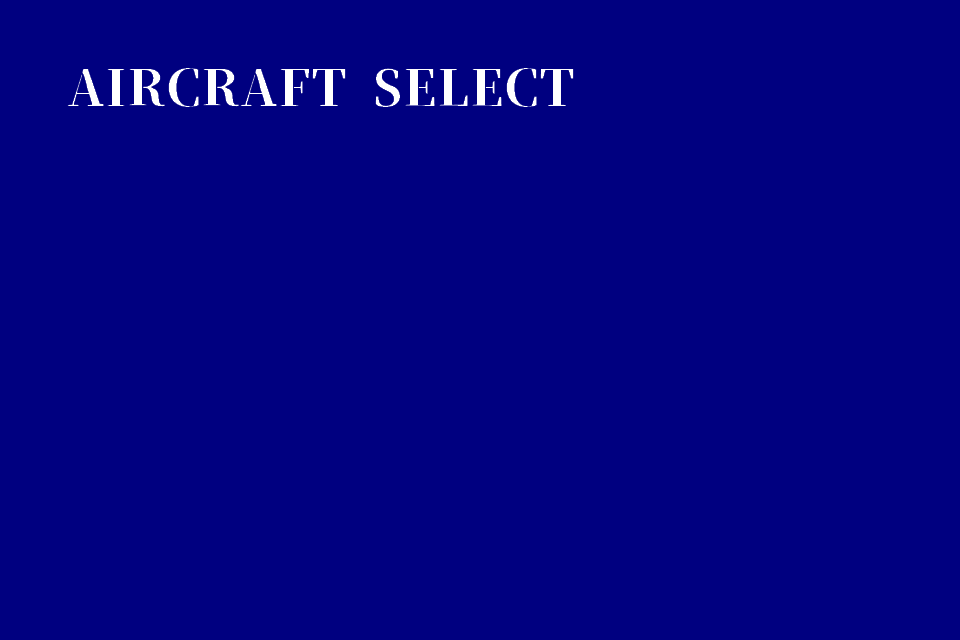
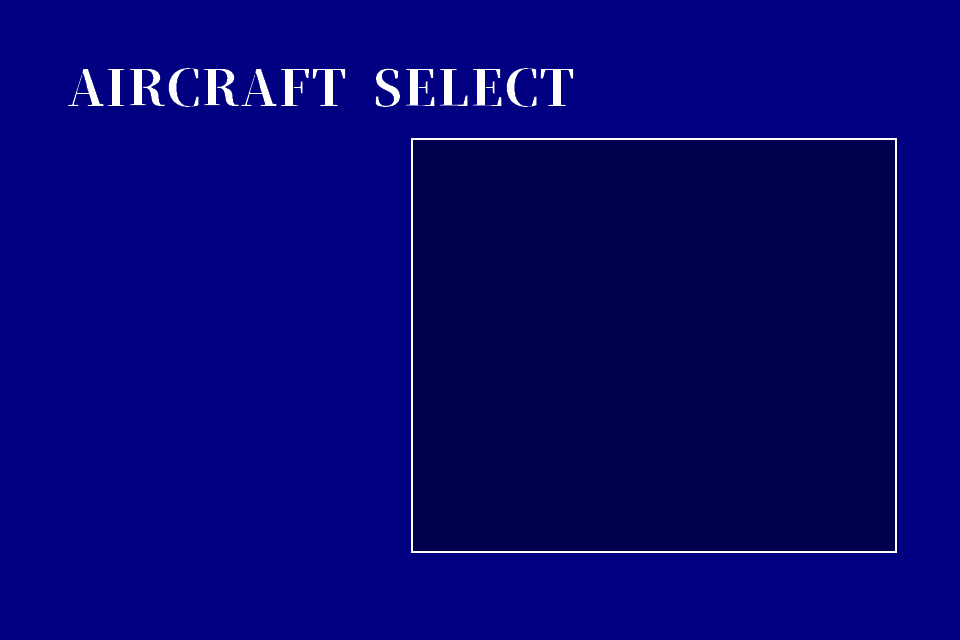
ver0.2

diff --git a/main/AircraftSelectScene.js b/main/AircraftSelectScene.js
@@ -1,0 +1,115 @@
+class AircraftSelectScene extends GameScene {
+  constructor () {
+    super("aircraftSelectScene");
+    this.selecter;
+    this.aircraft;
+    this.selectAircraft;
+    
+    this.text_unitName; 
+    this.text_specName;
+    this.specBar = new Array(3);
+    for (let i = 0; i < this.specBar.length; i++) {
+      this.specBar[i] = new Array(10);
+    }
+  }
+
+  init() {
+    super.init();
+    this.selectAircraft = 0;
+  }
+
+  preload() {
+    super.preload();
+
+    this.load.image("aircraft_select_background", "assets/images/aircraft_select_select.png");
+    this.load.image("aircraft_select_ui", "assets/images/aircraft_select_ui.png");
+    
+    let spec_temp = ["n", "b", "g", "r"];
+    for (let i = 0; i < spec_temp.length; i++) {
+      this.load.image("specBar_" + i, "assets/images/specBar_" + spec_temp[i] +".png");
+    }
+    
+    for (let i = 0; i < UNIT_DATA.length; i++) {
+      this.load.image(UNIT_DATA[i].tag, "assets/images/player/" + UNIT_DATA[i].tag +".png");
+    }
+  }
+
+  create() {
+    this.add.image(DISPLAY_WIDTH / 2, DISPLAY_HEIGHT / 2, "aircraft_select_background");
+    this.selecter = this.add.image(96+128, 154+(this.selectAircraft * 32), "select_ui_selecter");
+    this.add.image(96+128, 168+82, "aircraft_select_ui");
+    this.aircraft = this.add.image(800, 286, "fsb18");
+
+    this.text_unitName = this.add.text(440, 156, '', { font: '36px monospace', fill: '#00ff00' });
+    this.text_specName = this.add.text(440, 224, '', { font: '24px monospace', fill: '#00ff00' });
+
+    for (let i = 0; i < 3; i++) {
+      for (let j = 0; j < 10; j++) {
+        this.specBar[i][j] = this.add.image(496 + j * 16, 236 + i * 50, j < 3 ? "specBar_1" : (j < 7 ? "specBar_2" : "specBar_3"));
+        this.specBar[i][j].scaleX = this.specBar[i][j].scaleX * 0.5;
+        this.specBar[i][j].scaleY = this.specBar[i][j].scaleY * 0.5;
+      }
+    }
+
+    super.create();
+  }
+
+  update() {
+    this.selecter.setPosition(224, 154 + (this.selectAircraft * 32));
+    this.writeText();
+    this.aircraft.setTexture(UNIT_DATA[this.selectAircraft].tag);
+    super.update();
+  }
+
+  writeText() {
+    this.text_unitName.setText(UNIT_DATA[this.selectAircraft].serial + " " + UNIT_DATA[this.selectAircraft].name);
+    this.text_specName.setText("SPD\n\nDEF\n\nCHG");
+    for (let i = 0; i < 3; i++) {
+      for (let j = 0; j < 10; j++) {
+        this.specBar[i][j].setTexture(UNIT_DATA[this.selectAircraft].spec[i] <= j ? "specBar_0" : (j < 3 ? "specBar_1" : (j < 7 ? "specBar_2" : "specBar_3")))
+      }
+    }
+  }
+
+  contller() {
+    if (Phaser.Input.Keyboard.JustDown(this.cursors.up)) {
+      this.selectAircraft--;
+      if (this.selectAircraft < 0) this.selectAircraft = 6;
+    }
+    if (Phaser.Input.Keyboard.JustDown(this.cursors.down)) {
+      this.selectAircraft++;
+      if (this.selectAircraft > 6) this.selectAircraft = 0;
+    }
+    if (Phaser.Input.Keyboard.JustDown(this.space)) {
+      this.nextScene = this.selectAircraft;
+      // switch (this.selectAircraft) {
+      //   case 0:
+      //     break;
+      //   case 1:
+      //     break;
+      //   case 2:
+      //     break;
+      //   case 3:
+      //     break;
+      //   case 4:
+      //     break;
+      //   default:
+      //     break;
+      // }
+    }
+  }
+
+  sceneChange(next) {
+    if (this.nextSceneDelta < 1.0) {
+      this.selecter.scaleX = this.selecter.scaleX * 0.8;
+      this.fade.alpha = this.nextSceneDelta;
+      this.nextSceneDelta += 0.05;
+    }
+    else {
+      this.selecter.scaleX = 0;
+      this.fade.alpha = 1;
+      next = "shootingScene";
+      this.scene.start(next);
+    }
+  }
+}

diff --git a/main/data.js b/main/data.js
@@ -1,0 +1,66 @@
+const UNIT_DATA = [
+  {
+    tag : "fsb18",
+    serial : "FS/B-18F",
+    name : "CobraⅡ",
+    name_jp : "コブラⅡ",
+    explanation : "対空対地共に優れた汎用性の高いマルチロール戦闘機です。",
+    spec : [5, 5, 5]
+  },
+  {
+    tag : "fi14",
+    serial : "FI-14D",
+    name : "Serval",
+    name_jp : "スーパーサーバル",
+    explanation : "艦隊防空を主眼に置いた重武装の迎撃機です。",
+    spec : [4, 6, 10]
+  },
+  {
+    tag : "b15",
+    serial : "B-15E",
+    name : "Strike",
+    name_jp : "ストライク",
+    explanation : "FS-15制空戦闘機を元に開発された生存性の高い爆撃機です。",
+    spec : [3, 10, 6]
+  },
+  {
+    tag : "sy25",
+    serial : "SY-25TM",
+    name : "Volk",
+    name_jp : "ヴォルク",
+    explanation : "対地攻撃力が優秀な攻撃機です。",
+    spec : [1, 8, 8]
+  },
+  {
+    tag : "sy30sm",
+    serial : "SY-30SM",
+    name : "Babochka",
+    name_jp : "バーバチカ",
+    explanation : "高水準の運動性能と耐久性能を持つ強力な戦闘機です。",
+    spec : [9, 7, 1]
+  },
+  {
+    tag : "md4000",
+    serial : "MD.4000",
+    name : "Azur",
+    name_jp : "アズュール",
+    explanation : "軽量で運動性能特化の汎用戦闘機です。",
+    spec : [7, 4, 4]
+  },
+  {
+    tag : "ab2",
+    serial : "AB2M1",
+    name : "Furai",
+    name_jp : "風籟",
+    explanation : "対艦攻撃も想定され開発された高い攻撃力を持つ攻撃機です。",
+    spec : [6, 2, 9]
+  },
+  {
+    tag : "xfs23",
+    serial : "XFS-23A",
+    name : "BlackPhantom",
+    name_jp : "ブラックファントム",
+    explanation : "極秘裏に開発され、ステルス性を備えた最新鋭戦闘機です。",
+    spec : [8, 3, 3]
+  }
+]

diff --git a/main/ShootingScene.js b/main/ShootingScene.js
@@ -1,0 +1,39 @@
+class ShootingScene extends GameScene {
+  constructor () {
+    super("shootingScene");
+
+    this.player = {
+      image : null
+    };
+  }
+
+  init() {
+    super.init();
+  }
+
+  preload() {
+    super.preload();
+
+    this.load.image("cvn-96", "assets/images/npc/cvn-96_2.png");
+  }
+
+  create() {
+    super.create();
+
+    this.cvn = this.add.image(DISPLAY_WIDTH / 2 - 69, DISPLAY_HEIGHT / 2 + 96, "cvn-96");
+    this.cvn.scaleX = this.cvn.scaleX * 0.5;
+    this.cvn.scaleY = this.cvn.scaleY * 0.5;
+
+    this.player.image = this.add.image(DISPLAY_WIDTH / 2, DISPLAY_HEIGHT / 2, "fsb18");
+    this.player.image.scaleX = this.player.image.scaleX * 0.5;
+    this.player.image.scaleY = this.player.image.scaleY * 0.5;
+  }
+
+  update() {
+    super.update();
+  }
+
+  contller() {
+
+  }
+}

diff --git a/main/GameScene.js b/main/GameScene.js
@@ -3,13 +3,13 @@ class GameScene extends Phaser.Scene {
     super(sceneName);
     this.fade;
     this.nextScene = "-1";
-    this.nextSceneDelta = 1;
     this.cursors;
     this.space;
   }
 
   init() {
     this.nextScene = "-1";
+    this.nextSceneDelta = 1;
     this.nextSceneDelta = 1;
   }
 
@@ -22,7 +22,13 @@ class GameScene extends Phaser.Scene {
 
   create() {
     this.fade = this.add.image(DISPLAY_WIDTH / 2, DISPLAY_HEIGHT / 2, "fade_layer");
-    this.fade.alpha = this.nextSceneDelta;
+    this.fade.alpha = 1;
+    
+    if (DEBUG_MODE) {
+      this.input.on("pointerdown", function(pointer) {
+        console.log(pointer.x + "," + pointer.y)
+      }, this)
+    }
   }
 
   update() {

diff --git a/index.html b/index.html
@@ -8,9 +8,12 @@
     <script src="//cdn.jsdelivr.net/npm/phaser@3.60.0/dist/phaser.min.js"></script>
   </head>
   <body>
+    <script src="main/data.js"></script>
     <script src="main/GameScene.js"></script>
     <script src="main/Title.js"></script>
     <script src="main/MissionSelectScene.js"></script>
+    <script src="main/AircraftSelectScene.js"></script>
+    <script src="main/ShootingScene.js"></script>
     <script src="main/main.js"></script>
   </body>
 </html>

diff --git a/main/MissionSelectScene.js b/main/MissionSelectScene.js
@@ -1,7 +1,6 @@
 class MissionSelectScene extends GameScene {
   constructor () {
     super("missionSelectScene");
-    selectMission = 0;
     this.selecter;
   }
 
@@ -67,7 +66,7 @@ class MissionSelectScene extends GameScene {
     else {
       this.selecter.scaleX = 0;
       this.fade.alpha = 1;
-      next = "title";
+      next = "aircraftSelectScene";
       this.scene.start(next);
     }
   }

diff --git a/main/main.js b/main/main.js
@@ -1,13 +1,16 @@
+const DEBUG_MODE = true;
+
 var DISPLAY_WIDTH = 960;
 var DISPLAY_HEIGHT = 640;
 
 var selectMission = 0;
+var playerData;
 
 const config = {
   type: Phaser.AUTO,
   width: DISPLAY_WIDTH,
   height: DISPLAY_HEIGHT,
-  scene: [ Title, MissionSelectScene ],
+  scene: [ Title, MissionSelectScene, AircraftSelectScene, ShootingScene ],
   physics: {
     default: "arcade"
   }

diff --git a/main/Title.js b/main/Title.js
@@ -43,7 +43,7 @@ class Title extends GameScene {
     if (Phaser.Input.Keyboard.JustDown(this.space)) {
       switch (this.mode) {
         case 0:
-          this.nextScene = "missionSelectScene"
+          this.nextScene = "missionSelectScene";
           break;
         case 1:
           break;
